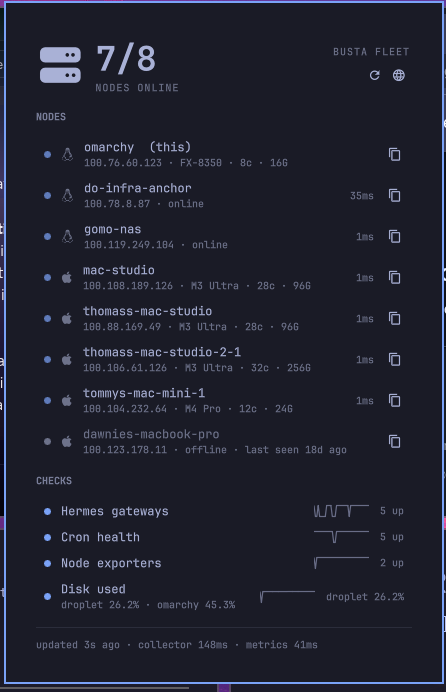
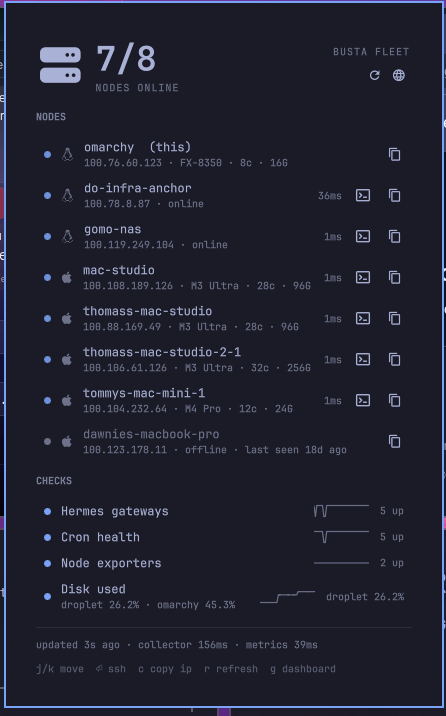
v1.4.0: keyboard-first navigation, SSH from the panel, offender-aware sentinel
j/k/arrow cursor over node rows with Enter/s opening the default
terminal SSH'd to the node (config template, omarchy-launch-terminal);
c copies the IP, discoverable via a footer hint line. Notifications now
key on the fingerprint of failing offenders, not just severity level —
a second machine failing during an existing warning still pings.
32 Python + 14 JS tests.

Claude-Session: https://claude.ai/code/session_01KHbyHbH4ua8rHthD24zcJn

diff --git a/Panel.qml b/Panel.qml
@@ -125,20 +125,59 @@ Panel {
     if (peer && peer.ip) Quickshell.execDetached(["wl-copy", String(peer.ip)])
   }
 
+  // Opens the user's default terminal already connected to the node. The
+  // command template comes from the fleet config; naive whitespace split is
+  // documented — quoting inside the template is not supported.
+  function sshInto(peer) {
+    if (!peer || !peer.online || peer.self) return
+    var template = (report && report.sshCommand) ? report.sshCommand : "ssh {name}"
+    var cmd = template.replace("{name}", peer.name)
+      .replace("{ip}", peer.ip).replace("{host}", peer.host)
+    var parts = cmd.split(" ").filter(function(p) { return p !== "" })
+    if (parts.length > 0)
+      Quickshell.execDetached(["omarchy-launch-terminal"].concat(parts))
+  }
+
+  // ---- Keyboard cursor over the node rows (Omarchy is keyboard-first) ----
+
+  property int cursorIndex: -1
+
+  function moveCursor(delta) {
+    if (peers.length === 0) return
+    if (cursorIndex < 0) cursorIndex = delta > 0 ? 0 : peers.length - 1
+    else cursorIndex = Math.max(0, Math.min(peers.length - 1, cursorIndex + delta))
+  }
+
+  function cursorPeer() {
+    return (cursorIndex >= 0 && cursorIndex < peers.length) ? peers[cursorIndex] : null
+  }
+
   // ---- Sentinel: desktop notification on severity transitions ------------
 
   // "" = no report seen yet: the first report sets the baseline silently, so
   // a shell restart during an ongoing incident doesn't re-announce it.
   property string lastNotifiedSeverity: ""
+  property string lastFingerprint: ""
+  property bool baselineSet: false
   property double lastNotifyMs: 0
 
   function maybeNotify() {
     if (!summary) return
     var sev = summary.severity
-    if (lastNotifiedSeverity === "") { lastNotifiedSeverity = sev; return }
-    if (sev === lastNotifiedSeverity) return
+    var fingerprint = Model.issueFingerprint(report)
+    if (!baselineSet) {
+      baselineSet = true
+      lastNotifiedSeverity = sev
+      lastFingerprint = fingerprint
+      return
+    }
+    // Notify on a severity change OR on a different set of offenders at the
+    // same severity — studio2 going down while disk already warns still
+    // deserves a ping.
+    if (sev === lastNotifiedSeverity && fingerprint === lastFingerprint) return
     var previous = lastNotifiedSeverity
     lastNotifiedSeverity = sev
+    lastFingerprint = fingerprint
     if (!notifyOnChange) return
     // Flap guard: state always tracks truth above, but at most one ping per
     // five minutes — a bouncing check can't spam the desktop.
@@ -160,6 +199,7 @@ Panel {
 
   function open() {
     openedFromHotkey = false
+    cursorIndex = -1
     setCenterHoverRevealSuppressed(false)
     root.controller.show()
     root.refresh()
@@ -167,6 +207,7 @@ Panel {
 
   function openFromHotkey() {
     openedFromHotkey = true
+    cursorIndex = -1
     root.controller.show()
     root.refresh()
     Qt.callLater(function() {
@@ -281,6 +322,17 @@ Panel {
       anchors.fill: parent
       onCloseRequested: root.close()
       onTabRequested: function(direction) { root.switchPanel(direction) }
+      onMoveRequested: function(dx, dy) { if (dy !== 0) root.moveCursor(dy) }
+      onActivateRequested: root.sshInto(root.cursorPeer())
+      onReturnRequested: root.sshInto(root.cursorPeer())
+      onTextKey: function(t) {
+        if (t === "j") root.moveCursor(1)
+        else if (t === "k") root.moveCursor(-1)
+        else if (t === "c") root.copyPeerIp(root.cursorPeer())
+        else if (t === "s") root.sshInto(root.cursorPeer())
+        else if (t === "r") root.refresh()
+        else if (t === "g") root.openDashboard()
+      }
 
       Flickable {
         id: fleetScroll
@@ -463,6 +515,7 @@ Panel {
               CursorSurface {
                 id: nodeRow
                 required property var modelData
+                required property int index
                 readonly property string state: Model.peerState(modelData)
                 readonly property color dotColor: state === "online" ? Color.accent
                   : state === "offline-expected" ? Color.urgent : root.dim
@@ -471,7 +524,7 @@ Panel {
                 implicitHeight: nodeInner.implicitHeight + Style.spacing.xl
                 radius: Style.cornerRadius
                 foreground: root.panelFg
-                hasCursor: nodeMouse.containsMouse
+                hasCursor: nodeMouse.containsMouse || root.cursorIndex === index
 
                 MouseArea {
                   id: nodeMouse
@@ -557,6 +610,16 @@ Panel {
                     font.family: root.bar ? root.bar.fontFamily : Style.font.family
                     font.pixelSize: Style.font.caption
                     Layout.alignment: Qt.AlignVCenter
+                  }
+
+                  PanelActionButton {
+                    visible: nodeRow.modelData.online && !nodeRow.modelData.self
+                    iconText: ""
+                    tooltipText: "SSH to " + nodeRow.modelData.name
+                    foreground: root.panelFg
+                    fontFamily: root.bar ? root.bar.fontFamily : Style.font.family
+                    Layout.alignment: Qt.AlignVCenter
+                    onClicked: root.sshInto(nodeRow.modelData)
                   }
 
                   PanelActionButton {
@@ -732,6 +795,14 @@ Panel {
               return bits.join(" · ")
             }
             color: root.stale ? Color.urgent : root.dim
+            font.family: root.bar ? root.bar.fontFamily : Style.font.family
+            font.pixelSize: Style.font.caption
+          }
+
+          Text {
+            width: parent.width
+            text: "j/k move  \u23ce ssh  c copy ip  r refresh  g dashboard"
+            color: root.tinted(root.dim, 0.75)
             font.family: root.bar ? root.bar.fontFamily : Style.font.family
             font.pixelSize: Style.font.caption
           }

diff --git a/Model.js b/Model.js
@@ -150,6 +150,31 @@ function peerBadge(peer) {
   return peer.latencyMs + "ms" + path;
 }
 
+// Stable identity of everything currently wrong. The sentinel notifies when
+// this changes — so a NEW failure while severity is already warn/crit still
+// pings, instead of hiding behind the unchanged severity level.
+function issueFingerprint(report) {
+  if (!report) return "";
+  var keys = [];
+  var checks = report.checks || [];
+  for (var i = 0; i < checks.length; i++) {
+    var c = checks[i];
+    if (c.severity === "ok") continue;
+    var bad = [];
+    for (var j = 0; j < c.series.length; j++)
+      if (c.series[j].severity !== "ok")
+        bad.push(c.series[j].severity + ":" + c.series[j].label);
+    keys.push(c.id + "[" + (c.error ? "err" : bad.sort().join(",")) + "]");
+  }
+  var ts = report.tailscale;
+  if (ts && ts.offlineExpected && ts.offlineExpected.length > 0)
+    keys.push("offline[" + ts.offlineExpected.slice().sort().join(",") + "]");
+  var errors = reportErrors(report);
+  for (var k = 0; k < errors.length; k++)
+    keys.push("src[" + errors[k].split(":")[0] + "]");
+  return keys.sort().join("|");
+}
+
 function relTime(epochSeconds, nowMs) {
   if (!epochSeconds) return "never";
   var s = Math.max(0, Math.round(nowMs / 1000 - epochSeconds));

diff --git a/README.md b/README.md
@@ -19,8 +19,10 @@ check's history) and a worst-first headline, and an honest footer with
 data age and collection latency.
 
 **It's a sentinel, not just a dashboard**: when the fleet's overall severity
-changes, Fleetbar sends a desktop notification naming exactly what broke —
-`Busta Fleet: WARN — Disk used: omarchy 45.3%` — and one when it recovers.
+changes — or when the *set of offenders* changes at the same severity, so a
+second machine failing during an existing warning still pings — Fleetbar
+sends a desktop notification naming exactly what broke, and one when it
+recovers.
 Notifications are transition-based and flap-guarded (at most one per five
 minutes), and a shell restart never re-announces an ongoing incident.
 Disable with the `notifyOnChange` setting.
@@ -113,13 +115,21 @@ Global history tuning (optional, top-level): `"history": {"enabled": true,
 timestep for `<`/`<=` checks, `max` otherwise). History is decoration: a
 failed range query degrades to no sparkline, never to a failed check.
 
-### Bar interactions
+### Interactions
 
-| Action | Effect |
+| Bar | Effect |
 |---|---|
 | Click | Toggle the fleet panel |
 | Middle click | Force refresh |
 | Right click | Open your `dashboardUrl` |
+
+The panel is keyboard-first, like the rest of Omarchy: `j`/`k` (or arrows)
+move the cursor through the node rows, `Enter`/`s` opens your default
+terminal SSH'd to the selected node, `c` copies its IP, `r` refreshes,
+`g` opens the dashboard, `Esc` closes. Each online node also has SSH and
+copy buttons. The SSH command is a config template — `"sshCommand":
+"ssh {name}"` by default, with `{name}`/`{ip}`/`{host}` placeholders
+(split on whitespace; no quoting).
 
 IPC: `qs ipc call stratoforce.fleetbar toggle` (also `open`, `close`, `refresh`).
 
